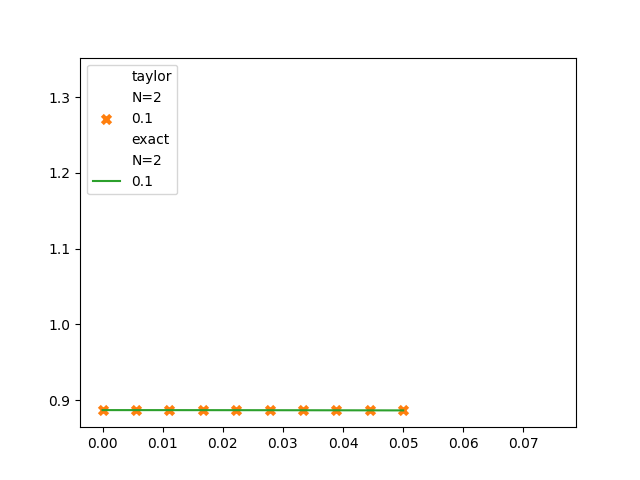
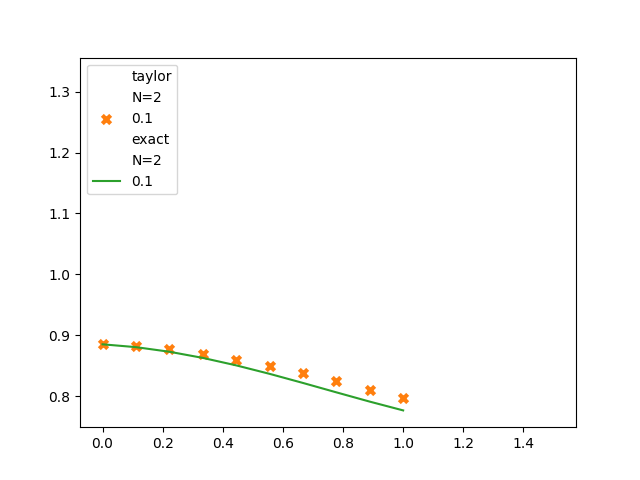
Three qubit truncated taylor works

diff --git a/ising/simulation/taylor/taylor.py b/ising/simulation/taylor/taylor.py
@@ -70,10 +70,15 @@ def calculate_decomposition_term(prod_inds, rotation_ind, paulis, t_bar, k, alph
         cur_pauli = cur_pauli @ pauli
 
     exp_pauli, exp_prob = exp_pair
+    if exp_prob < 0:
+        exp_pauli = exp_pauli * -1
+        exp_prob *= -1
+
 
     exp_pauli = exp_pauli.to_matrix()
     rotated = calculate_exp(t_bar, exp_pauli, k)
 
+    assert exp_prob >= 0
     cur_prob *= exp_prob
     cur_pauli = cur_pauli.to_matrix()
     cur_pauli = cur_pauli @ rotated
@@ -92,8 +97,8 @@ def sum_decomposition_terms(paulis, t_bar, r, coeffs, k_max):
     terms = []
     probs = []
 
-    if r is None:
-        r = int(np.ceil(t_bar**2))
+    # if r is None:
+    #     r = int(np.ceil(t_bar**2))
 
     alphas = get_alphas(t_bar, k_max, r)
     t_bar = t_bar / r
@@ -122,6 +127,60 @@ def sum_decomposition_terms(paulis, t_bar, r, coeffs, k_max):
         _probs.append(prob.real)
 
     return (terms, np.array(_probs)) 
+
+def sum_decomposition(paulis, t_bar, r, coeffs, k_max):
+    pairs = list(zip(paulis, coeffs))
+    final = None
+
+    if r is None:
+        r = int(np.ceil(t_bar**2))
+
+    alphas = get_alphas(t_bar, k_max, r)
+    t_bar = t_bar / r
+
+    for k in range(0, k_max + 1, 2):
+        alpha_term = alphas[k]
+
+        if t_bar == 0.0:
+            if k > 0:
+                assert alpha_term == 0.0
+
+        mult_paulis = cartesian_product(pairs, repeat=k + 1)
+
+        total_pauli = None
+        for paulis in mult_paulis:
+            pauli_prod = paulis[:-1]
+            exp_pair = paulis[-1]
+
+            cur_prob = 1.0
+            cur_pauli = Pauli("I" * len(exp_pair[0]))
+            for pauli, prob in pauli_prod:
+                cur_prob *= prob
+                cur_pauli = cur_pauli @ pauli
+
+            exp_pauli, exp_prob = exp_pair
+            exp_pauli = exp_pauli.to_matrix()
+            rotated = calculate_exp(t_bar, exp_pauli, k)
+
+            cur_pauli = cur_prob * cur_pauli.to_matrix()
+            cur_pauli = cur_pauli @ (exp_prob * rotated)
+
+            assert cur_pauli is not None
+
+            if total_pauli is None:
+                total_pauli = cur_pauli
+            else:
+                total_pauli += cur_pauli
+
+        assert total_pauli is not None
+        total_pauli *= alpha_term
+
+        if final is None:
+            final = total_pauli
+        else:
+            final += total_pauli
+
+    return np.linalg.matrix_power(final, r)
 
 
 class TaylorCircuit:
@@ -173,6 +232,7 @@ class TaylorCircuit:
         # hm = self.ham_subbed
         # assert hm is not None
         # return hm.eig_vec @ np.diag(np.exp(complex(0, -1) * self.time * hm.eig_val)) @ hm.eig_vec_inv
+        # decomp = sum_decomposition(self.paulis, self.t_bar, self.r, self.coeffs, self.cap_k)
         return self.terms[ind]
 
     def control_unitary(self, ind: int, control_val: int):
@@ -195,39 +255,41 @@ class TaylorCircuit:
             op_2 = np.kron(ONEONE, unitary)
             return op_1 + op_2
 
-    def post_v1(self, ind):
+    def post_v1(self, inds: list[int]):
         if self.rho_init is None:
             raise ValueError("Initial state not set.")
 
         final_rho = self.rho_init.copy()
 
-        v1 = self.control_unitary(ind, control_val=1)
-        final_rho = v1 @ final_rho @ v1.conj().T
+        for ind in inds:
+            v1 = self.control_unitary(ind, control_val=1)
+            final_rho = v1 @ final_rho @ v1.conj().T
+
         npt.assert_allclose(np.trace(final_rho), 1, atol=1e-3, rtol=1e-3)
         return final_rho
 
-    def post_v1v2(self, i1, i2):
+    def post_v1v2(self, i1s: list[int], i2s: list[int]):
 
-        final_rho = self.post_v1(i1)
+        final_rho = self.post_v1(i1s)
 
-        v2 = self.control_unitary(i2, control_val=0)
-        final_rho = v2 @ final_rho @ v2.conj().T
+        for i2 in i2s:
+            v2 = self.control_unitary(i2, control_val=0)
+            final_rho = v2 @ final_rho @ v2.conj().T
 
         npt.assert_allclose(np.trace(final_rho), 1, atol=1e-3, rtol=1e-3)
 
         return final_rho
 
     def get_observation(self, time: float):
-        # self.r = np.ceil(time ** 2)
         self.time = time
-        self.r = 1
         self.t_bar = time * self.beta
-
+        self.r = 5 * np.ceil(self.t_bar) ** 2
+        # self.r = 10
         # TODO obs_norm
         # self.cap_k = get_cap_k(self.t_bar, obs_norm=1, eps=self.error)
         self.cap_k = 5
         self.terms, self.probs = sum_decomposition_terms(
-            self.paulis, time, self.r, self.coeffs, self.cap_k
+            self.paulis, self.t_bar, self.r, self.coeffs, self.cap_k
         )
 
         self.eye = np.identity(self.terms[0].shape[0])
@@ -241,8 +303,8 @@ class TaylorCircuit:
 
         samples_count = Counter(
             [
-                tuple(x)
-                for x in np.random.choice(self.inds, p=self.probs, size=(count, 2))
+                tuple([tuple(x[0]), tuple(x[1])])
+                for x in np.random.choice(self.inds, p=self.probs, size=(count, 2, int(self.r)))
             ]
         )
 
@@ -256,7 +318,7 @@ class TaylorCircuit:
                 print(f"running: {total_count} out of {count}")
             total_count += s_count
 
-            final_rho = self.post_v1v2(sample[0], sample[1])
+            final_rho = self.post_v1v2(list(sample[0]), list(sample[1]))
 
             result = np.trace(np.abs(self.run_obs @ final_rho))
             results.append(result * s_count)
@@ -264,7 +326,8 @@ class TaylorCircuit:
         assert total_count == count
 
         magn_h = calculate_mu(results, count, [1])
-        # assert False
+        # if time > 0.8:
+        #     assert False
         return magn_h
 
     def get_observations(

diff --git a/tests/trotter/test_taylor_sim.py b/tests/trotter/test_taylor_sim.py
@@ -110,7 +110,6 @@ def test_taylor_sum_anlyt_zz():
     decomp = sum_decomposition(taylor.paulis, time, rl[-1], taylor.coeffs, kl[-1])
 
 
-
     def sample_sum(r, count=sample_count):
         alphas = taylor.get_alphas(time, r, k_max)
         final = taylor.sample_v(time, r, k_max)
